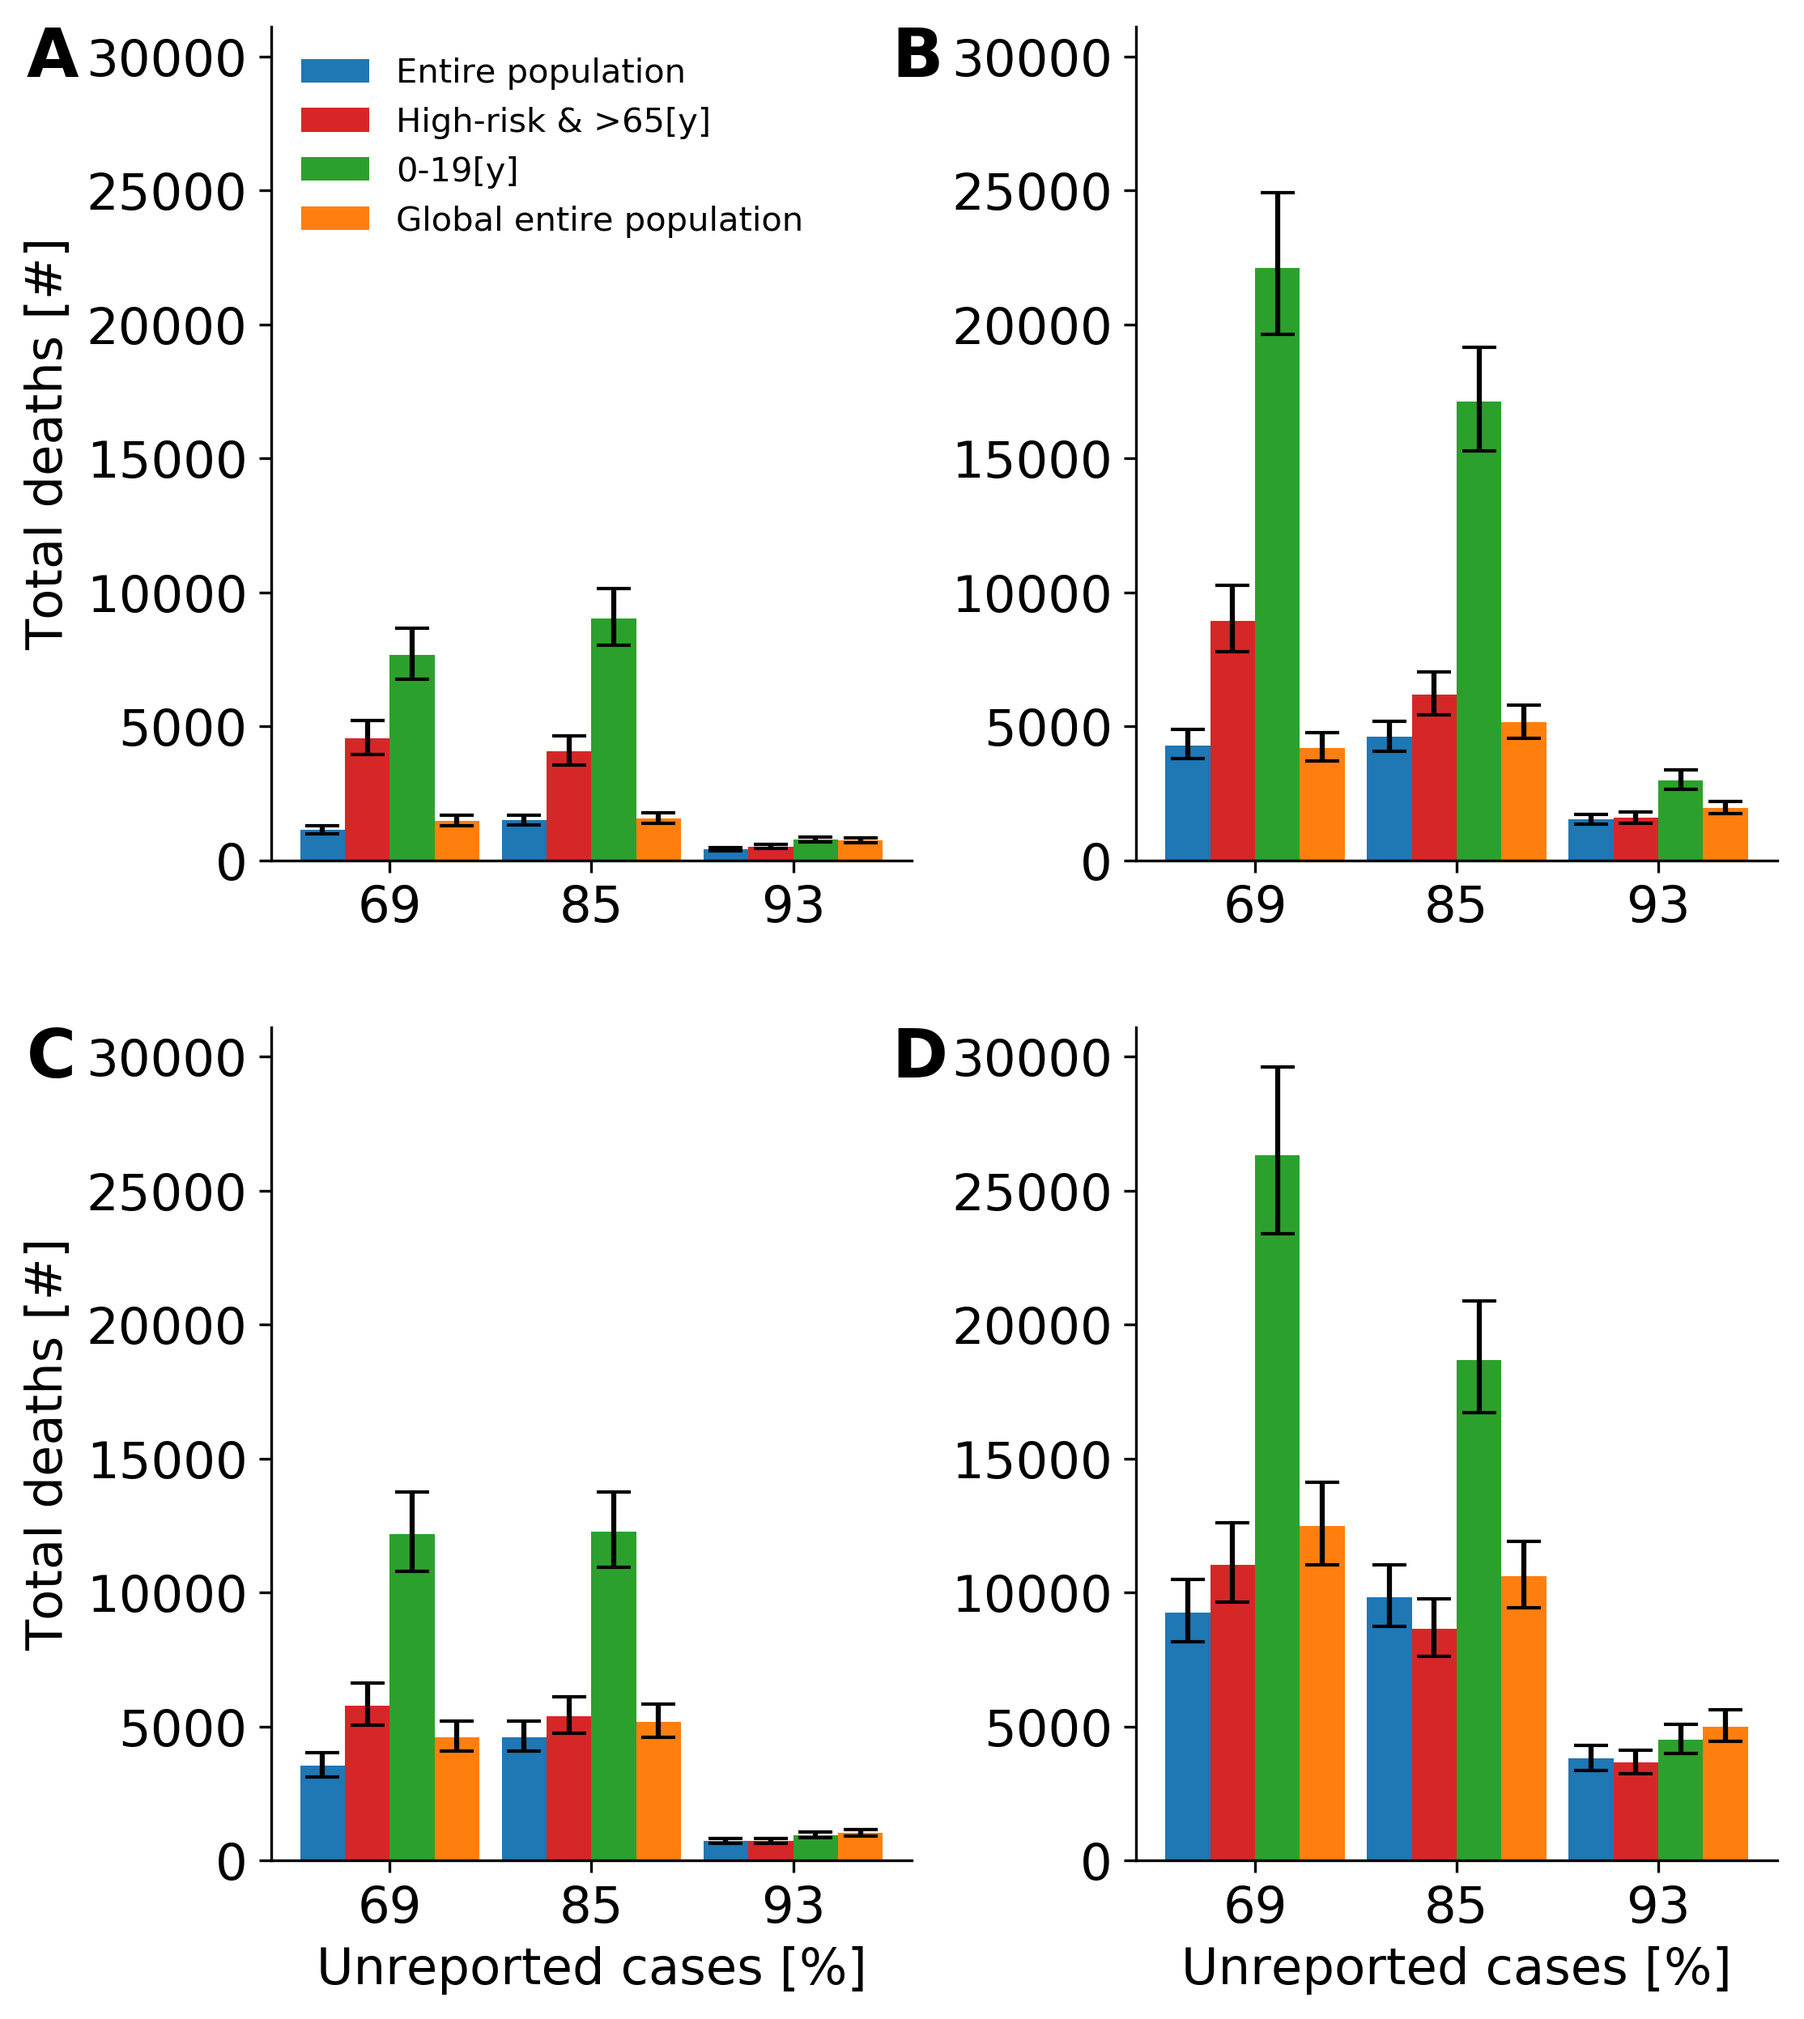
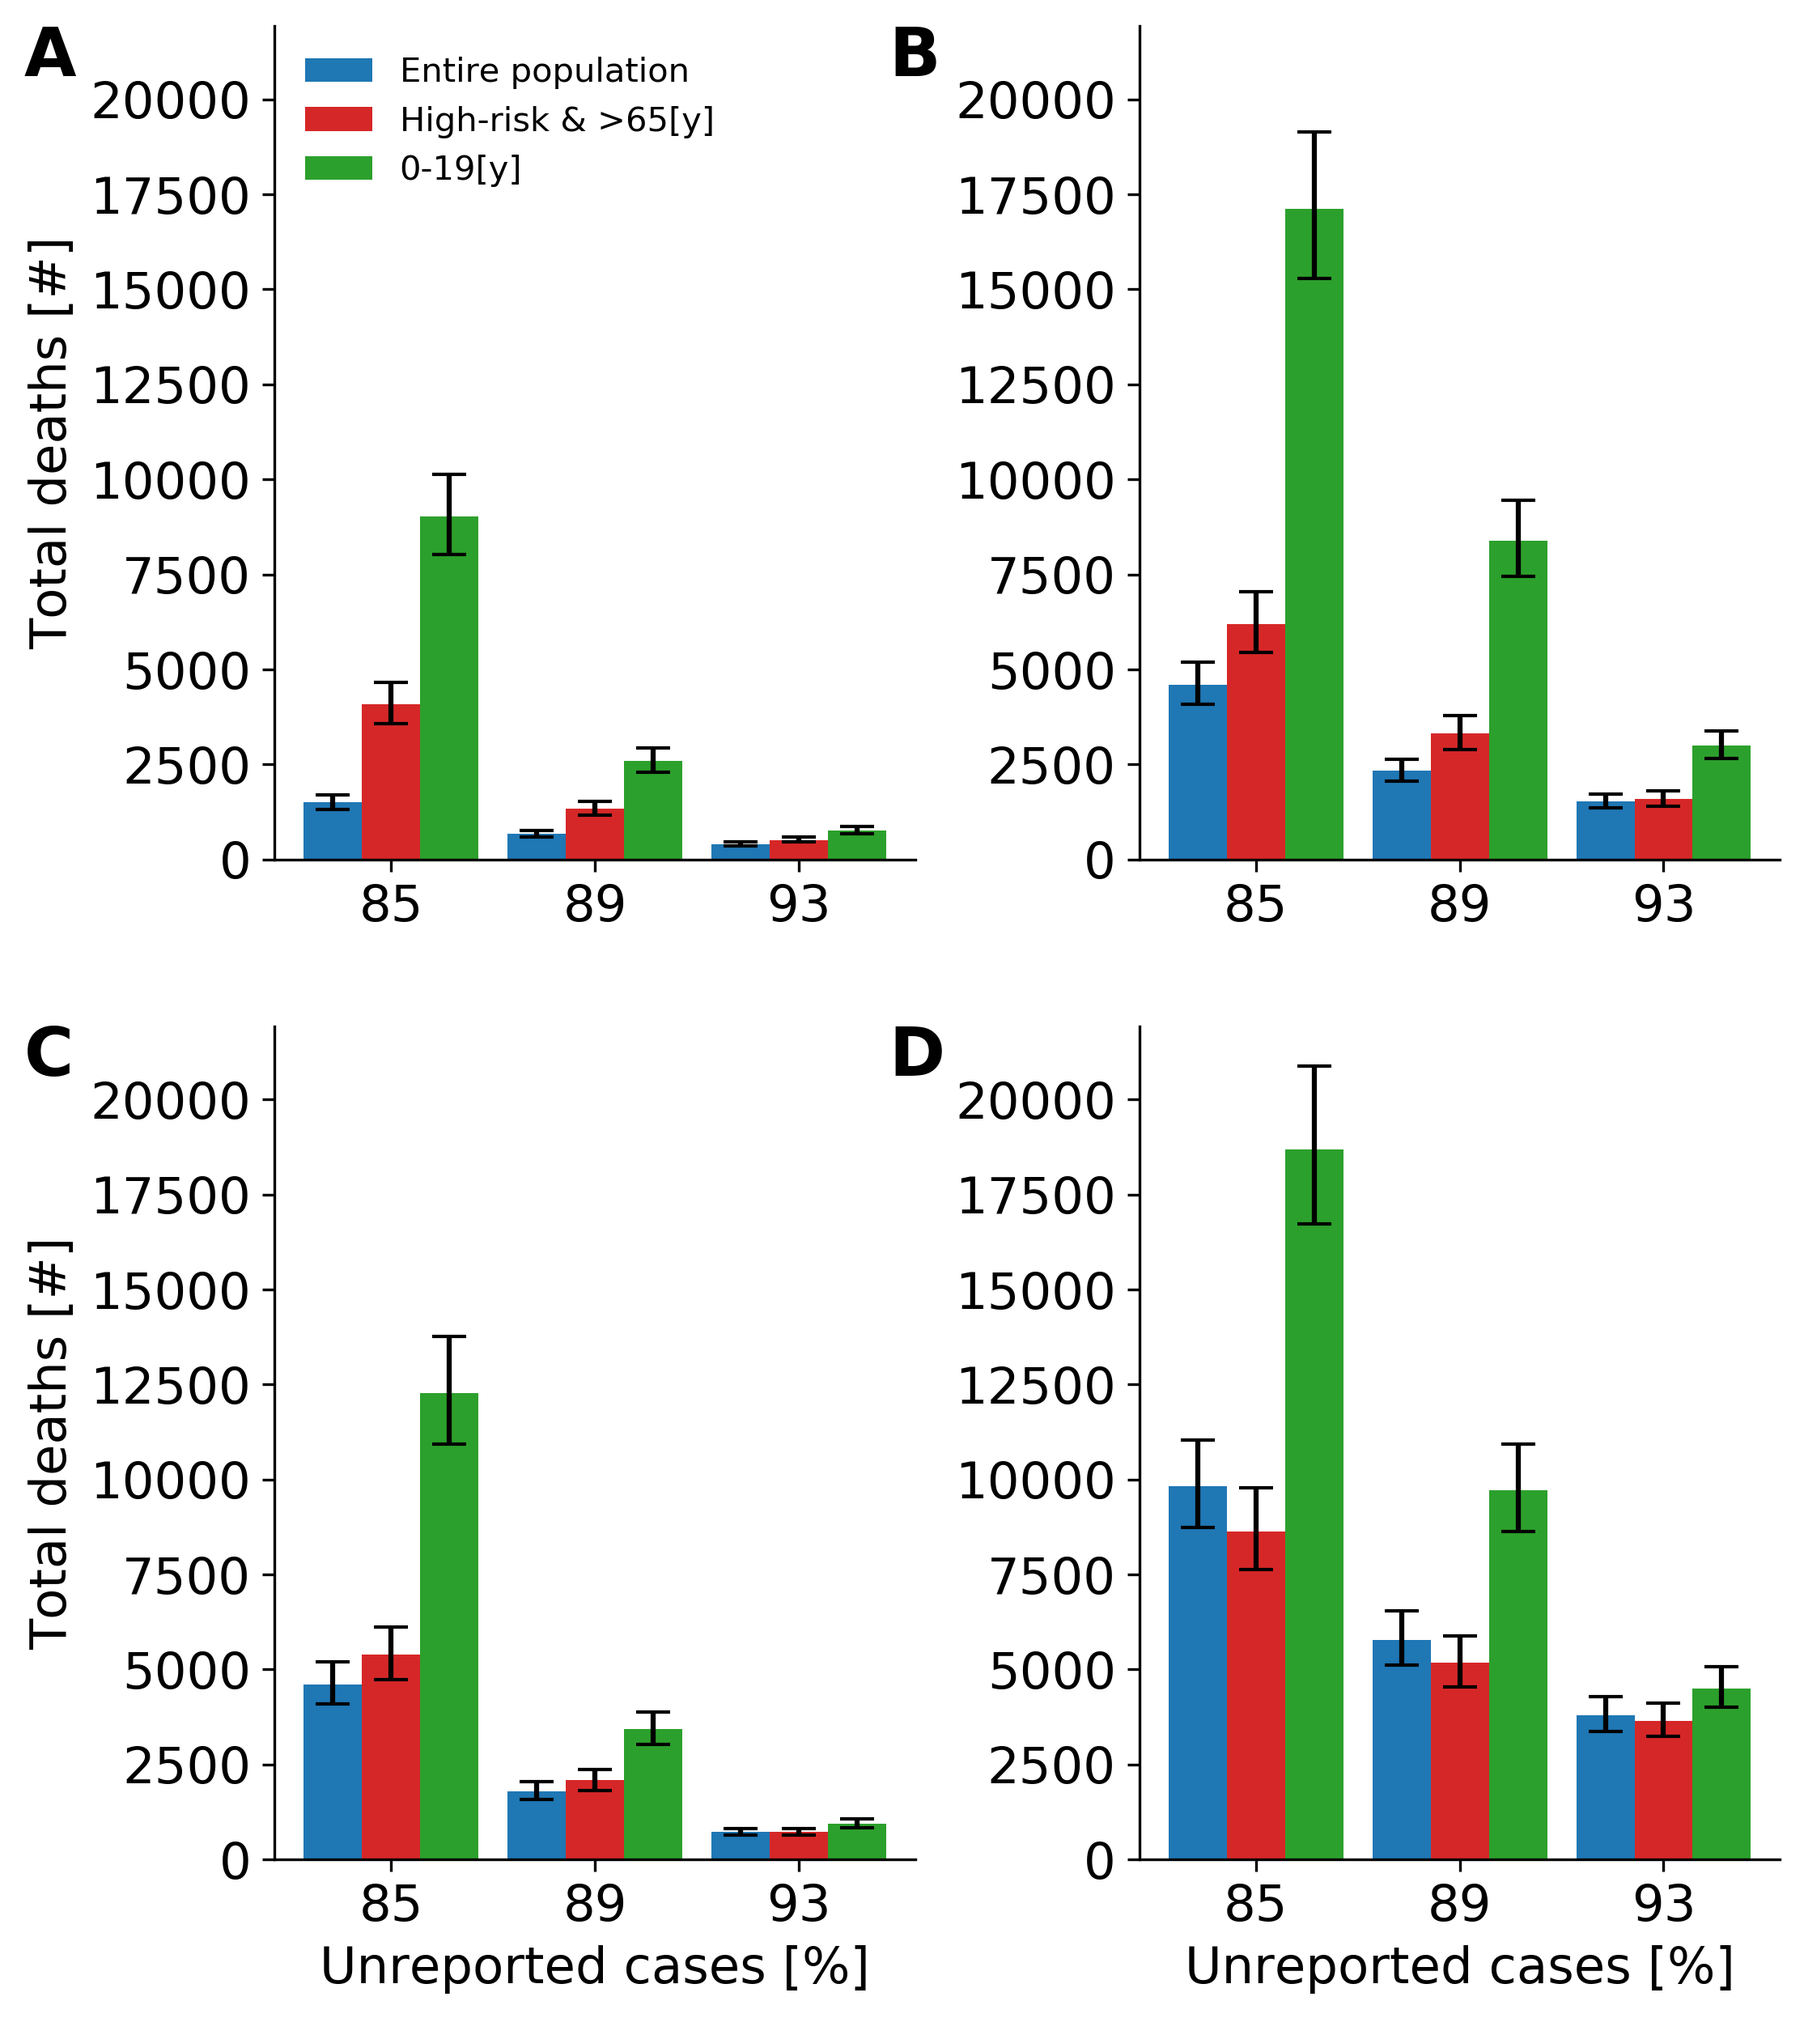
remaking results for scenario 4

diff --git a/scripts/generating_model_lockdowns_results.py b/scripts/generating_model_lockdowns_results.py
@@ -43,12 +43,13 @@ parameters_list = [
 # 	(2,29),
 # 	(3,60),
 # 	(3,90),
-	(1, 60),
-	(2, 60),
-	(3, 60),
-	(1, -1),
-	(2, -1),
-	(3, -1),
+# 	(1, 60),
+# 	(2, 60),
+# 	(3, 60),
+# 	(1, -1),
+# 	(2, -1),
+# 	(3, -1),
+	(4, 60),
 ]
 
 stops_type = [
